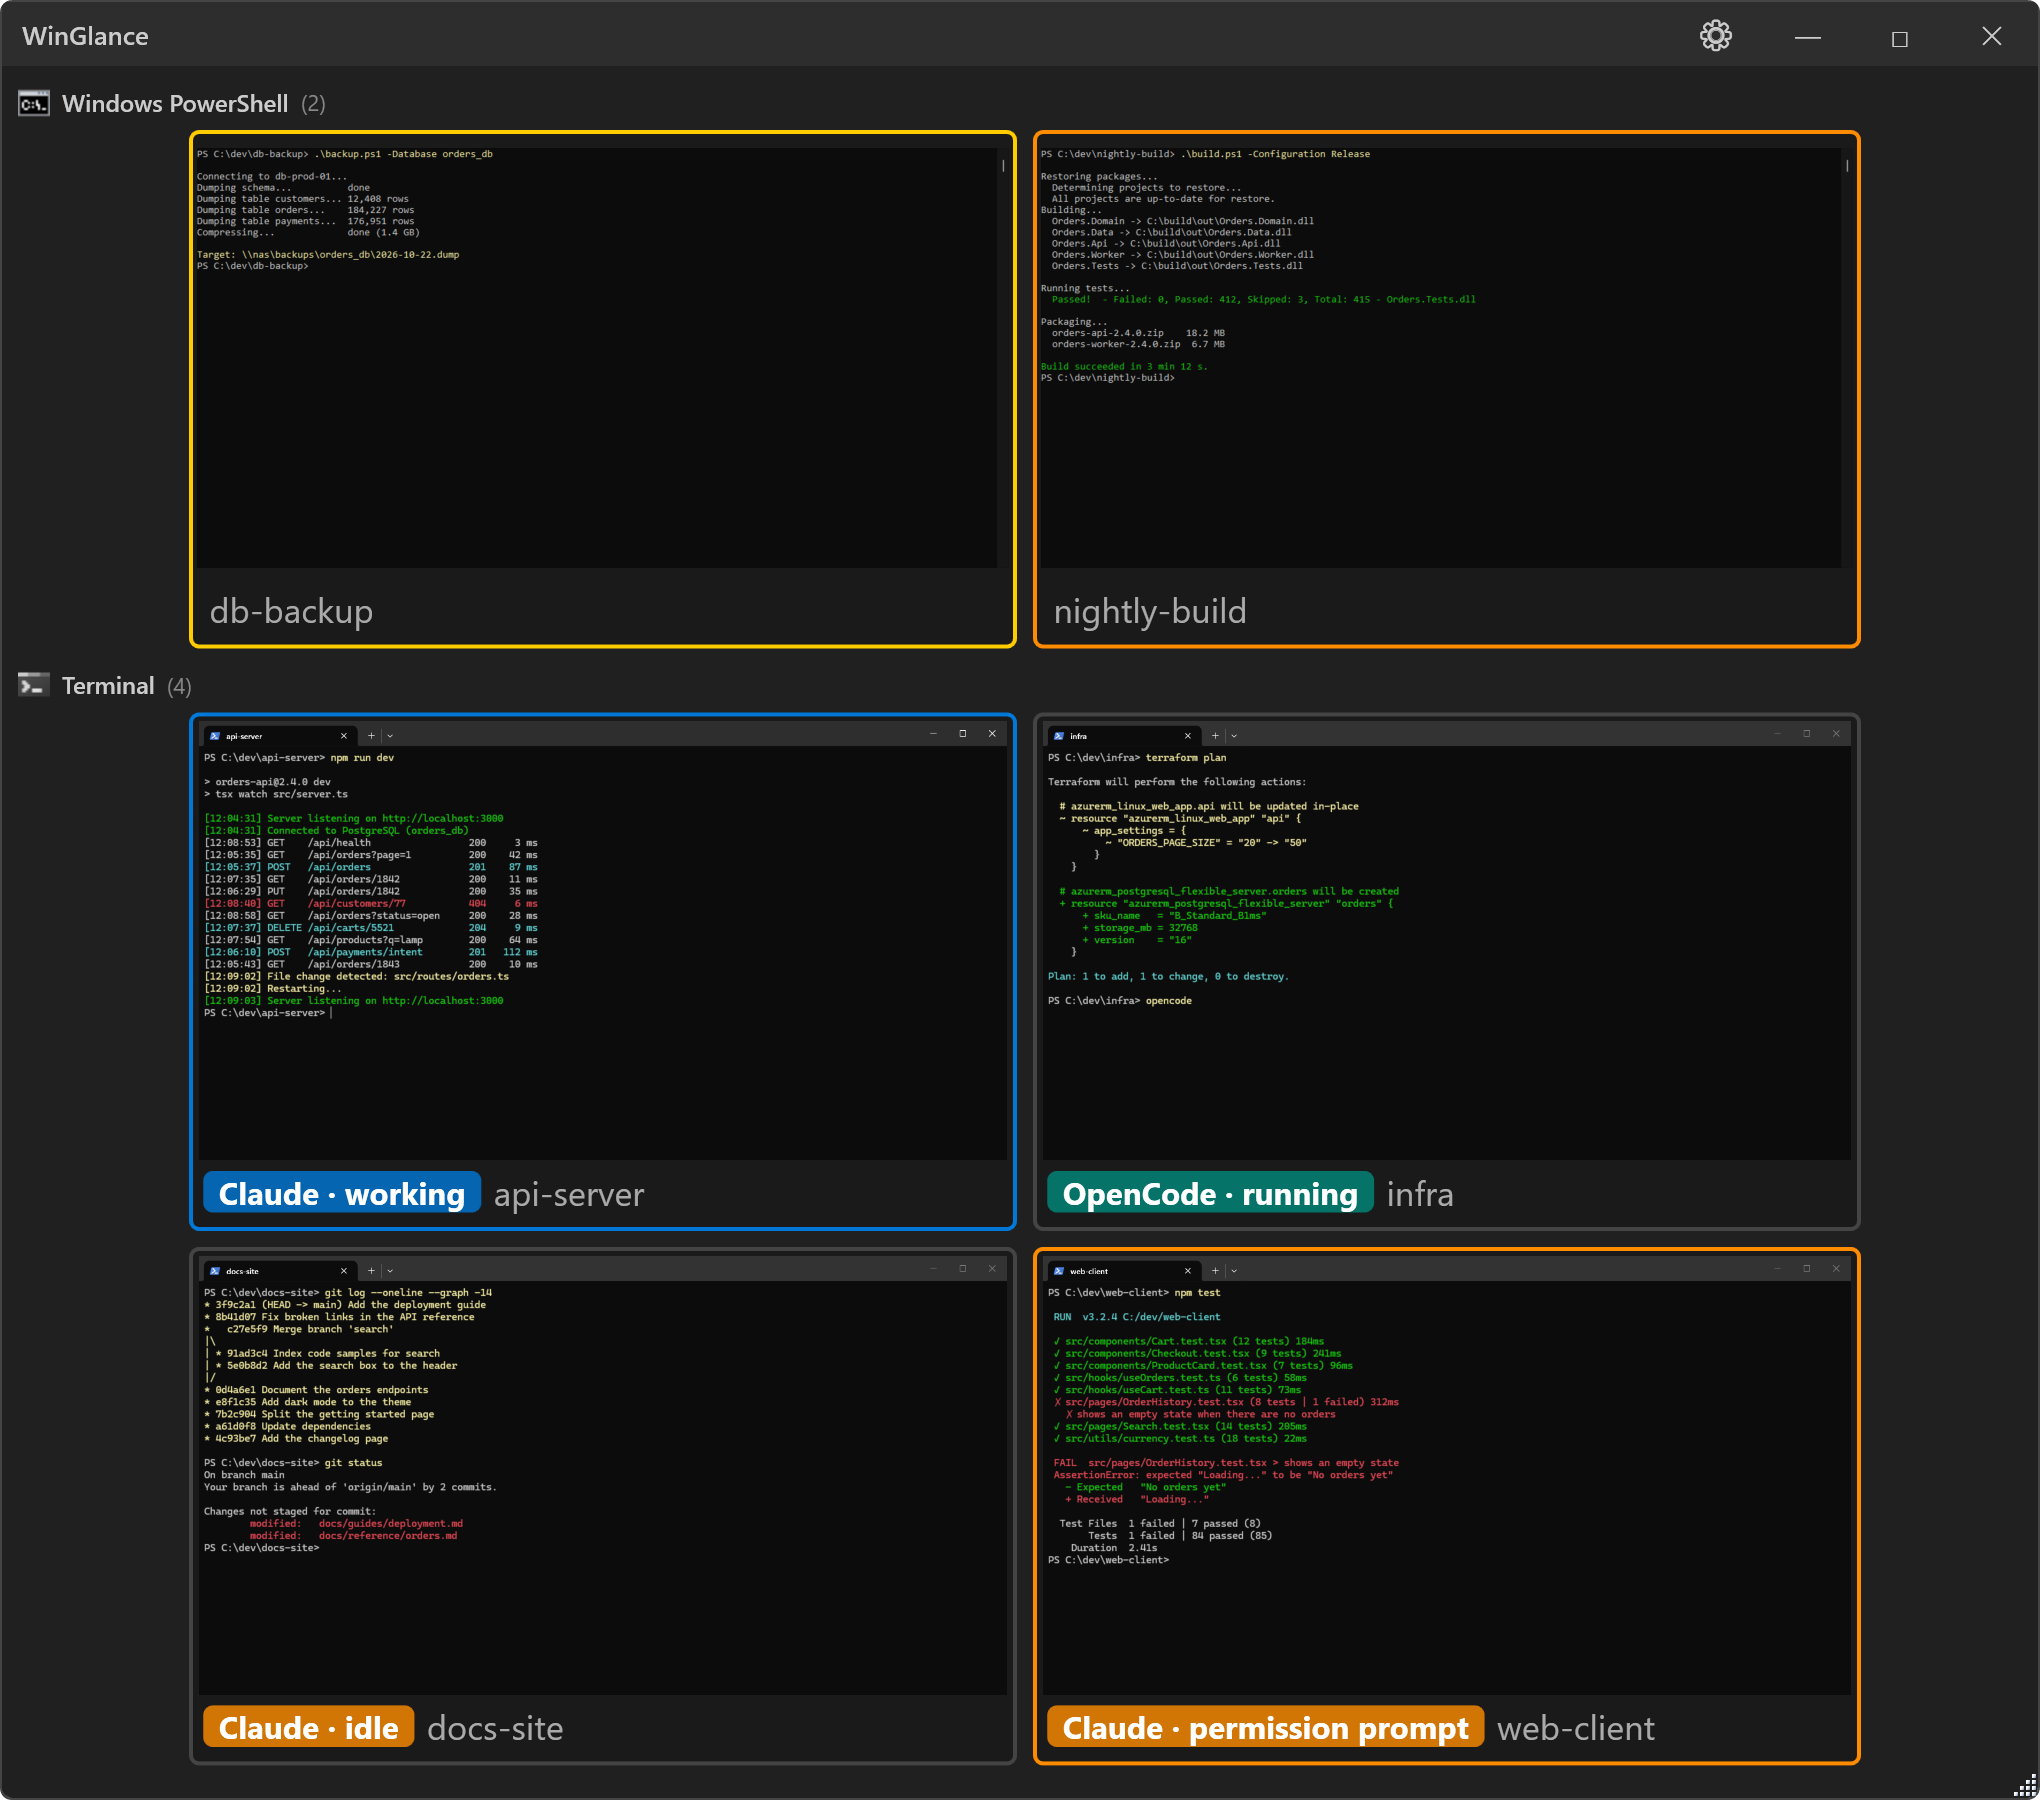
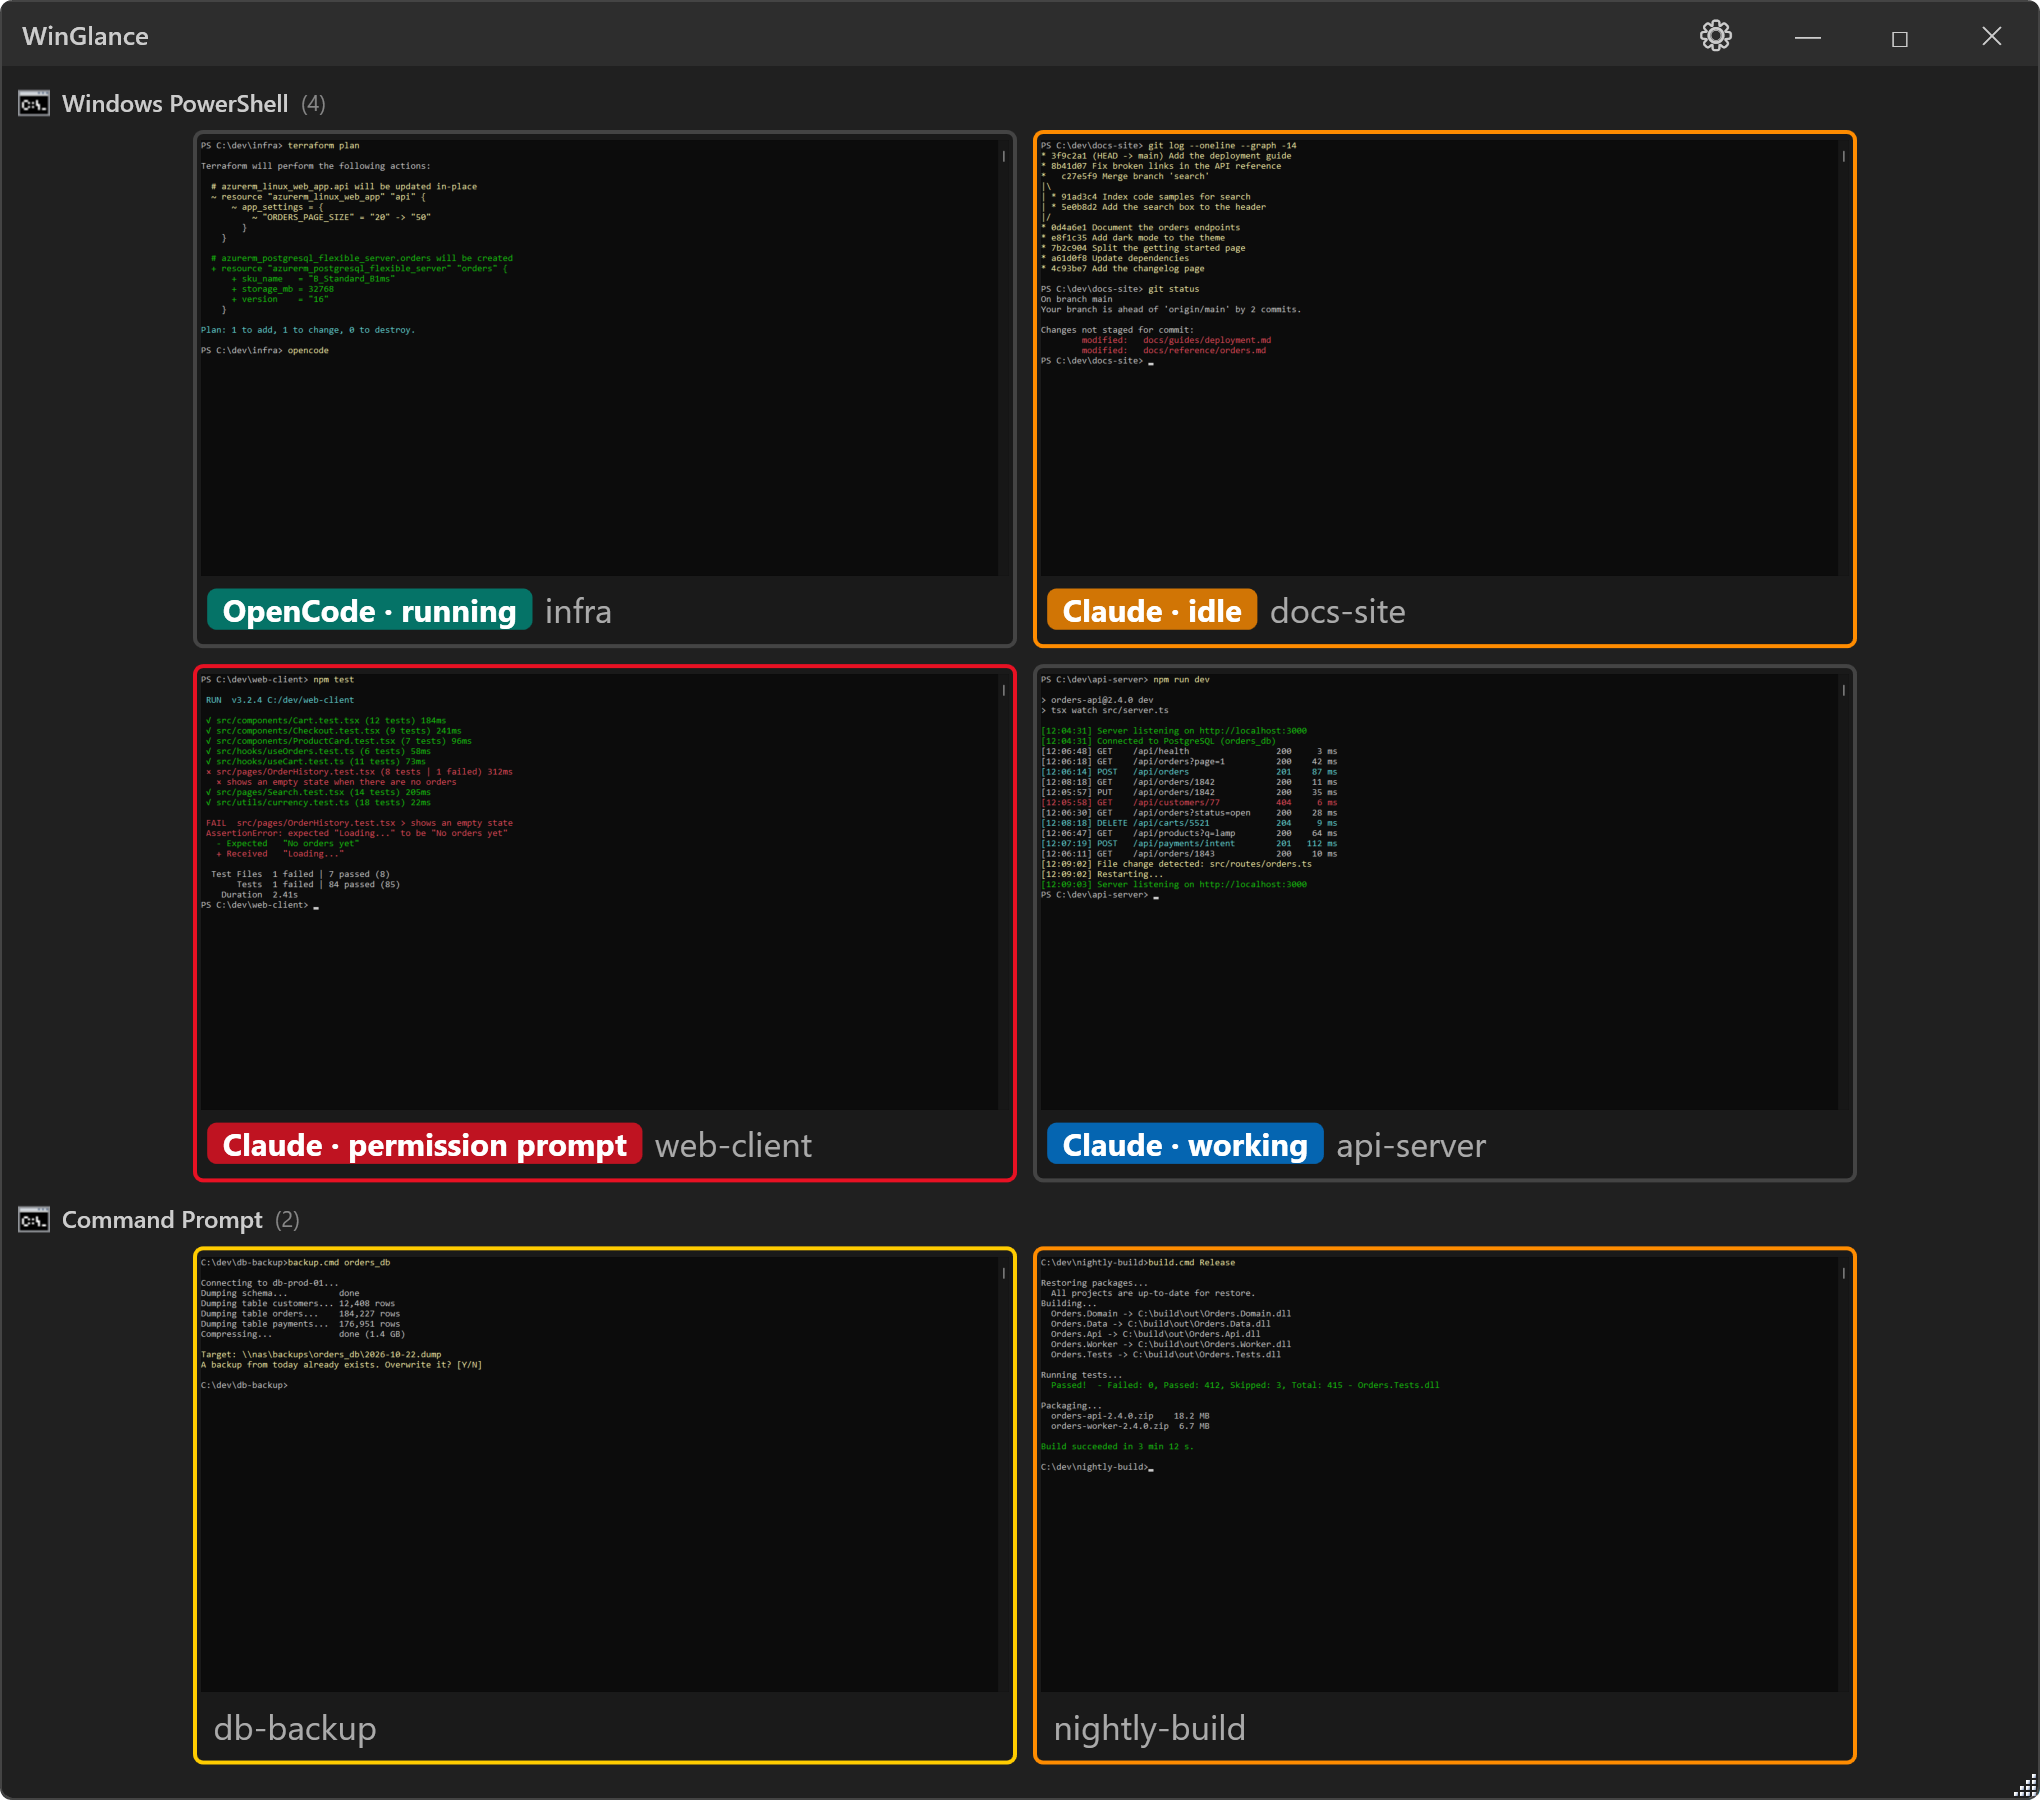
Retake the panel and agent badge screenshots with the red waiting status
The screenshots showed "Claude · permission prompt" in orange. They are
retaken on classic consoles (Windows PowerShell for the agents, Command
Prompt for the modal dialog and the flashing window), with the agent
that finished its turn while away now showing its orange border.

Changed region(s): [[0.0, 0.0622, 0.9265, 0.9956], [0.4941, 0.0622, 0.6485, 0.2178], [0.4941, 0.9333, 0.8029, 0.9956]]

diff --git a/doc/USER_MANUAL.md b/doc/USER_MANUAL.md
@@ -2,9 +2,9 @@
 
 WinGlance is a portable, always-on-top floating panel for Windows 10 and Windows 11 that displays **live thumbnail previews** of your monitored application windows. It enables instant **one-click window switching**, making it ideal for power users who work with multiple instances of the same application (e.g., several VS Code editors, Chrome windows, or terminals), and shows at a glance which coding agent is working, done, or waiting for you.
 
-<img src="images/preview.png" alt="The WinGlance panel showing two groups of live window thumbnails, Windows PowerShell and Terminal, with colored borders and coding agent badges" width="1020">
+<img src="images/preview.png" alt="The WinGlance panel showing two groups of live window thumbnails, Windows PowerShell and Command Prompt, with colored borders and coding agent badges" width="1020">
 
-In this example, WinGlance monitors two applications. In the **Windows PowerShell** group, `db-backup` has a yellow border because a confirmation dialog blocks it, and `nightly-build` an orange one because it flashes for attention. In the **Terminal** group, `api-server` is the active window (blue) where Claude Code is working, `web-client` waits for a permission answer (red), Claude has finished in `docs-site`, and OpenCode runs in `infra`.
+In this example, WinGlance monitors two applications. In the **Windows PowerShell** group, Claude Code waits for a permission answer in `web-client` (red), has finished its turn in `docs-site` while you were elsewhere (orange), and is working in `api-server` (blue badge); OpenCode runs in `infra`. In the **Command Prompt** group, a confirmation dialog blocks `db-backup` (yellow) and `nightly-build` flashes for attention (orange).
 
 ---
 
@@ -197,7 +197,7 @@ When an analysis fails (wrong key, endpoint unreachable, timeout), no indicator 
 
 When **Claude Code** or **OpenCode** runs in a monitored window, a badge appears next to the window title, under the thumbnail:
 
-<img src="images/agent-badges.png" alt="Four terminal thumbnails with the badges Claude · working in blue, OpenCode · running in teal, Claude · idle in orange and Claude · permission prompt in red" width="1018">
+<img src="images/agent-badges.png" alt="Four console thumbnails with the badges OpenCode · running in teal, Claude · idle in orange, Claude · permission prompt in red with a red border, and Claude · working in blue" width="1010">
 
 | Badge                              | Meaning                                                                                  |
 | ---------------------------------- | ---------------------------------------------------------------------------------------- |

diff --git a/README.md b/README.md
@@ -2,7 +2,7 @@
 
 A floating panel that keeps **live thumbnails** of the windows you care about always in view, with **one-click switching** and a glance at which coding agent is working, done, or waiting for you.
 
-<img src="doc/images/preview.png" alt="The WinGlance panel showing two groups of live window thumbnails, Windows PowerShell and Terminal, with colored borders and coding agent badges" width="1020">
+<img src="doc/images/preview.png" alt="The WinGlance panel showing two groups of live window thumbnails, Windows PowerShell and Command Prompt, with colored borders and coding agent badges" width="1020">
 
 When working with multiple windows of the same application (e.g., several VS Code instances, each running a coding agent), the only way to see previews is by hovering over the taskbar icon — a transient popup that disappears immediately. WinGlance keeps those previews visible at all times, and tells you which window needs you.
 
@@ -24,7 +24,7 @@ When working with multiple windows of the same application (e.g., several VS Cod
 
 ## Coding Agent Badges
 
-<img src="doc/images/agent-badges.png" alt="Four terminal thumbnails with the badges Claude · working in blue, OpenCode · running in teal, Claude · idle in orange and Claude · permission prompt in red" width="1018">
+<img src="doc/images/agent-badges.png" alt="Four console thumbnails with the badges OpenCode · running in teal, Claude · idle in orange, Claude · permission prompt in red with a red border, and Claude · working in blue" width="1010">
 
 A badge under each thumbnail shows the agent running in the window: blue while Claude works, red when it waits for your answer (a permission prompt, a question), orange once it has finished its turn, teal for OpenCode. While you are in another window, the border turns red when an agent waits for you, and orange when it finishes. Sessions come from `claude agents --json` (Claude Code v2.1.139 or later); they are matched to VS Code windows and terminals alike.
 
